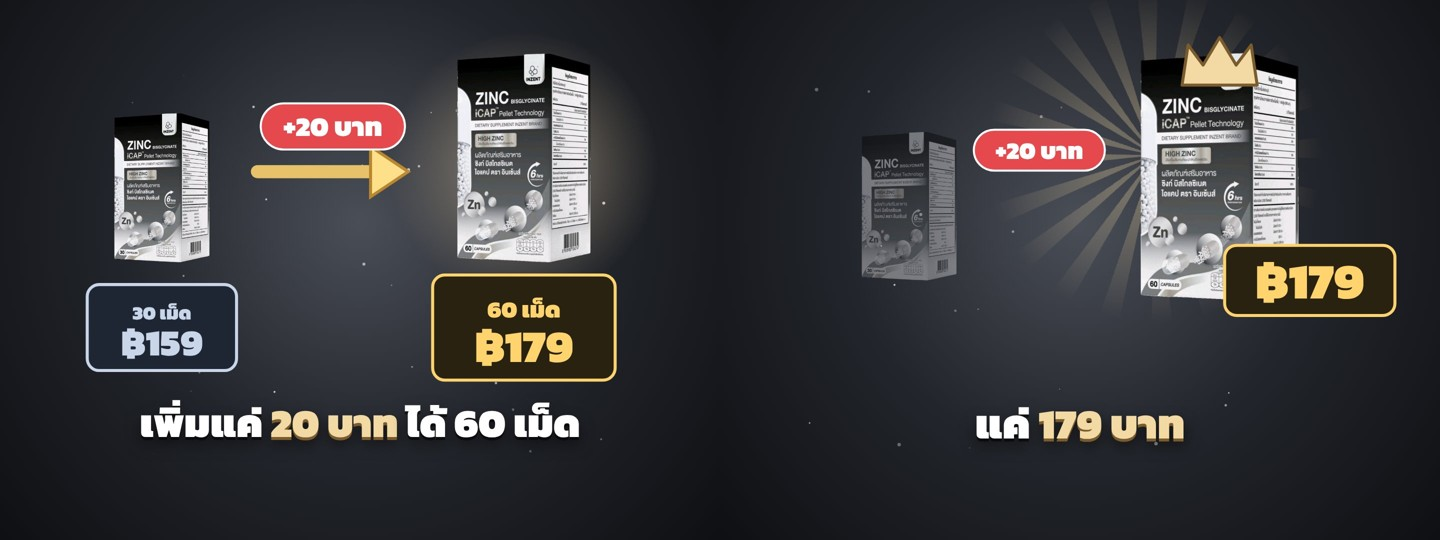
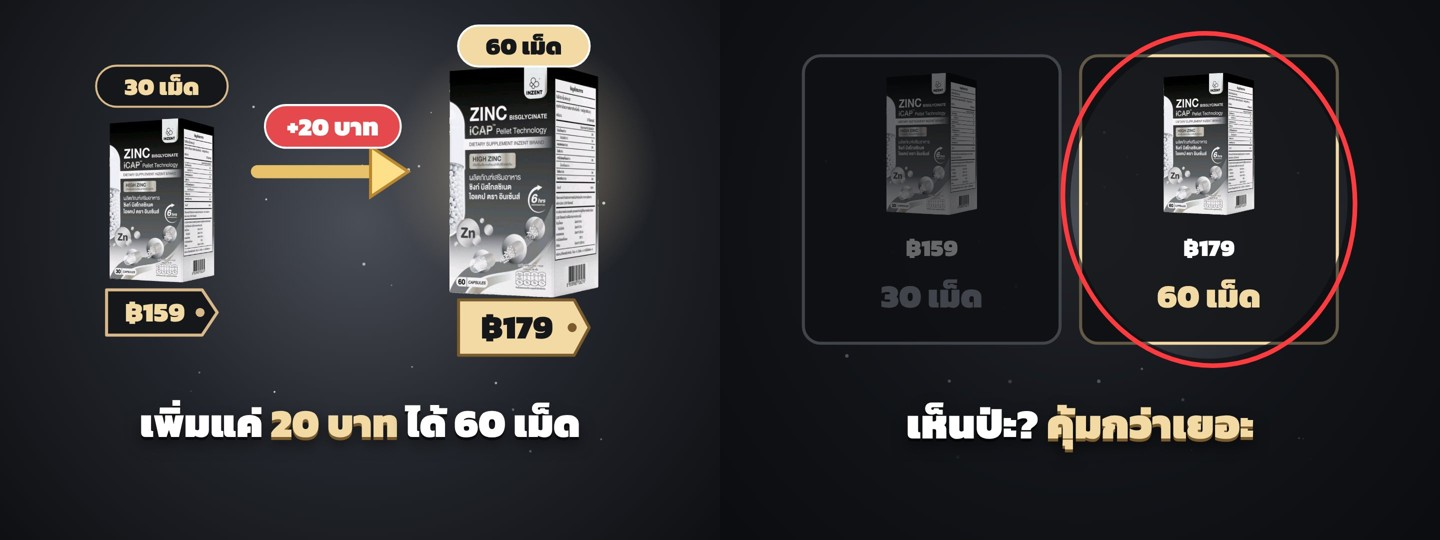
2411: flat tags + 30-caps label; per-capsule replaced with counts
Claude-Session: https://claude.ai/code/session_013vK57e4V6MU13RVwJvX1wC

Changed region(s): [[0.5625, 0.0, 0.9688, 0.8593], [0.2812, 0.0296, 0.4375, 0.7111], [0.0625, 0.1185, 0.2812, 0.7111]]

diff --git a/output/src/2411/index.html b/output/src/2411/index.html
@@ -422,25 +422,24 @@ function miniChart(x0,y0,W,H,blueP,goldP,mark){let s=`<rect x="${x0-30}" y="${y0
  if(mark){const [mh,col,txt,p]=mark;if(p>0){const x=x0+W*mh/8;s+=`<path d="M${x} ${y0-H} V${y0}" stroke="${col}" stroke-width="4" stroke-dasharray="10 8" opacity="${p}"/>`+pill(x,y0-H-6,txt,p,col,'#16171B',30)}}
  return s}
 
-function priceTag2(x,y,txt,p,big){if(p<=0)return '';const k=eOB(cl(p));const w=big?260:220,h=big?110:90;return `<g transform="translate(${x} ${y}) scale(${k}) rotate(${big?-6:4})"><path d="M${-w/2} ${-h/2} H${w/2-30} L${w/2} 0 L${w/2-30} ${h/2} H${-w/2}Z" fill="${big?'#F3D9A4':'#16171B'}" stroke="${big?'#7A5B2E':'#D9B98A'}" stroke-width="6" stroke-linejoin="round"/><circle cx="${w/2-34}" cy="0" r="9" fill="${big?'#7A5B2E':'#D9B98A'}"/><text x="-14" y="${big?22:18}" text-anchor="middle" font-family="K" font-weight="900" font-size="${big?66:54}" fill="${big?'#16171B':'#F3D9A4'}">${txt}</text></g>`}
+function priceTag2(x,y,txt,p,big,flat){if(p<=0)return '';const k=eOB(cl(p));const w=big?260:220,h=big?110:90;return `<g transform="translate(${x} ${y}) scale(${k}) rotate(${flat?0:(big?-6:4)})"><path d="M${-w/2} ${-h/2} H${w/2-30} L${w/2} 0 L${w/2-30} ${h/2} H${-w/2}Z" fill="${big?'#F3D9A4':'#16171B'}" stroke="${big?'#7A5B2E':'#D9B98A'}" stroke-width="6" stroke-linejoin="round"/><circle cx="${w/2-34}" cy="0" r="9" fill="${big?'#7A5B2E':'#D9B98A'}"/><text x="-14" y="${big?22:18}" text-anchor="middle" font-family="K" font-weight="900" font-size="${big?66:54}" fill="${big?'#16171B':'#F3D9A4'}">${txt}</text></g>`}
 function calM(x,y,m,p){if(p<=0)return '';const k=eOB(cl(p));return `<g transform="translate(${x} ${y}) scale(${k})"><rect x="-120" y="-115" width="240" height="235" rx="26" fill="#16171B" stroke="#D9B98A" stroke-width="6"/><rect x="-120" y="-115" width="240" height="64" rx="26" fill="#D9B98A"/><text y="-70" text-anchor="middle" font-family="K" font-weight="900" font-size="34" fill="#16171B">เดือนที่ ${m}</text><text y="70" text-anchor="middle" font-family="K" font-weight="900" font-size="100" fill="#fff">30</text></g>`}
 window.extra=function(t){
  const on=(a,b)=>t>=a-0.05&&t<b+0.45;
- // S1 30 vs 60 price (big, flat, different colours)
+ // S1 30 vs 60 price
  if(on(0,3.6)){const lt=t;let s='';
-  const price=(x,y,n,p,col,bg,fs,show)=>{if(show<=0)return '';const k=eOB(cl(show));const w=fs*3.3;return `<g transform="translate(${x} ${y}) scale(${k})"><rect x="${-w/2}" y="${-fs*0.95}" width="${w}" height="${fs*1.9}" rx="24" fill="${bg}" stroke="${col}" stroke-width="6"/><text y="${-fs*0.18}" text-anchor="middle" font-family="K" font-weight="900" font-size="${fs*0.42}" fill="${col}">${n}</text><text y="${fs*0.62}" text-anchor="middle" font-family="K" font-weight="900" font-size="${fs*0.82}" fill="${col}">${p}</text></g>`};
-  s+=jarAt('box30.png',330,520,300)+price(330,650,'30 เม็ด','฿159','#C9D6EA','#1E2633',90,1);
+  s+=jarAt('box30.png',330,560,330)+priceTag2(330,620,'฿159',1,false,true)+pill(330,170,'30 เม็ด',1,'#16171B','#F3D9A4',48).replace('stroke="#fff"','stroke="#D9B98A"');
   const a=cl((lt-0.3)/0.4);s+=`<g opacity="${a}"><path d="M520 340 H${520+230*eOC(a)}" stroke="#E8C26A" stroke-width="26" stroke-linecap="round"/><path d="M745 290 L820 340 L745 390Z" fill="#FFE08A" stroke="#B8862F" stroke-width="6"/></g>`;
-  s+=pill(670,250,'+20 บาท',cl((lt-0.6)/0.3),'#E5484D','#fff',54);
+  s+=pill(670,250,'+20 บาท',cl((lt-0.6)/0.3),'#E5484D','#fff',50);
   s+=`<circle cx="1050" cy="330" r="270" fill="url(#g1)"/><defs><radialGradient id="g1"><stop offset="0" stop-color="#FFECC8" stop-opacity=".5"/><stop offset="1" stop-color="#D9B98A" stop-opacity="0"/></radialGradient></defs>`;
-  s+=jarAt('box60.png',1050,520,420)+price(1050,650,'60 เม็ด','฿179','#FFD36E','#2A2210',110,cl((lt-0.9)/0.35));
+  s+=jarAt('box60.png',1050,590,470)+priceTag2(1050,650,'฿179',cl((lt-0.9)/0.35),true,true);
+  s+=pill(1050,90,'60 เม็ด',cl((lt-1.6)/0.3),'#F3D9A4','#16171B',48);
   $('v1').innerHTML=s}
- // S2 readable price comparison
+ // S2 per capsule
  if(on(3.6,4.9)){const lt=t-3.6;let s='';
-  const card=(x,img,n,price,col,d,big)=>{const p=cl((lt-d)/0.3);if(p<=0)return '';return `<g opacity="${p}"><rect x="${x-250}" y="100" width="500" height="580" rx="34" fill="rgba(22,23,27,.9)" stroke="${col}" stroke-width="6"/>${jarAt(img,x,400,big?290:250)}<text x="${x}" y="490" text-anchor="middle" font-family="K" font-weight="900" font-size="56" fill="#fff">${n}</text><text x="${x}" y="610" text-anchor="middle" font-family="K" font-weight="900" font-size="${big?110:92}" fill="${col}">${price}</text></g>`};
-  s+=card(450,'box30.png','30 เม็ด','฿159','#C9CED8',0,false)+card(990,'box60.png','60 เม็ด','฿179','#F3D9A4',0.1,true);
-  s+=`<g transform="translate(720 300) scale(${eOB(cl((lt-0.3)/0.3))})"><circle r="66" fill="#E5484D" stroke="#fff" stroke-width="6"/><text y="-2" text-anchor="middle" font-family="K" font-weight="900" font-size="40" fill="#fff">+20</text><text y="36" text-anchor="middle" font-family="K" font-weight="900" font-size="28" fill="#fff">บาท</text></g>`;
-  s+=`<rect x="735" y="95" width="510" height="590" rx="38" fill="none" stroke="#F3D9A4" stroke-width="${4+4*Math.sin(t*8)}" opacity="${cl((lt-0.5)/0.3)}"/>`+pill(990,720,'ได้เพิ่มอีก 30 เม็ด!',cl((lt-0.6)/0.3),'#F3D9A4','#16171B',42);
+  const card=(x,img,price,per,col,d)=>{const p=cl((lt-d)/0.3);if(p<=0)return '';return `<g opacity="${p}"><rect x="${x-250}" y="110" width="500" height="560" rx="34" fill="rgba(22,23,27,.9)" stroke="${col}" stroke-width="6"/>${jarAt(img,x,420,280)}<text x="${x}" y="500" text-anchor="middle" font-family="K" font-weight="900" font-size="46" fill="#fff">${price}</text><text x="${x}" y="600" text-anchor="middle" font-family="K" font-weight="900" font-size="64" fill="${col}">${per}</text></g>`};
+  s+=card(450,'box30.png','฿159','30 เม็ด','#9AA0AC',0)+card(990,'box60.png','฿179','60 เม็ด','#F3D9A4',0.1);
+  s+=focus(2,990,390,270,310,(lt-0.6)/0.3);
   $('v2').innerHTML=s}
  // S3 who benefits: hormone, skin, hair, nails, acne
  if(on(4.9,10.3)){const lt=t-4.9;let s='';

diff --git a/output/src/2411/extra.js b/output/src/2411/extra.js
@@ -1,22 +1,21 @@
-function priceTag2(x,y,txt,p,big){if(p<=0)return '';const k=eOB(cl(p));const w=big?260:220,h=big?110:90;return `<g transform="translate(${x} ${y}) scale(${k}) rotate(${big?-6:4})"><path d="M${-w/2} ${-h/2} H${w/2-30} L${w/2} 0 L${w/2-30} ${h/2} H${-w/2}Z" fill="${big?'#F3D9A4':'#16171B'}" stroke="${big?'#7A5B2E':'#D9B98A'}" stroke-width="6" stroke-linejoin="round"/><circle cx="${w/2-34}" cy="0" r="9" fill="${big?'#7A5B2E':'#D9B98A'}"/><text x="-14" y="${big?22:18}" text-anchor="middle" font-family="K" font-weight="900" font-size="${big?66:54}" fill="${big?'#16171B':'#F3D9A4'}">${txt}</text></g>`}
+function priceTag2(x,y,txt,p,big,flat){if(p<=0)return '';const k=eOB(cl(p));const w=big?260:220,h=big?110:90;return `<g transform="translate(${x} ${y}) scale(${k}) rotate(${flat?0:(big?-6:4)})"><path d="M${-w/2} ${-h/2} H${w/2-30} L${w/2} 0 L${w/2-30} ${h/2} H${-w/2}Z" fill="${big?'#F3D9A4':'#16171B'}" stroke="${big?'#7A5B2E':'#D9B98A'}" stroke-width="6" stroke-linejoin="round"/><circle cx="${w/2-34}" cy="0" r="9" fill="${big?'#7A5B2E':'#D9B98A'}"/><text x="-14" y="${big?22:18}" text-anchor="middle" font-family="K" font-weight="900" font-size="${big?66:54}" fill="${big?'#16171B':'#F3D9A4'}">${txt}</text></g>`}
 function calM(x,y,m,p){if(p<=0)return '';const k=eOB(cl(p));return `<g transform="translate(${x} ${y}) scale(${k})"><rect x="-120" y="-115" width="240" height="235" rx="26" fill="#16171B" stroke="#D9B98A" stroke-width="6"/><rect x="-120" y="-115" width="240" height="64" rx="26" fill="#D9B98A"/><text y="-70" text-anchor="middle" font-family="K" font-weight="900" font-size="34" fill="#16171B">เดือนที่ ${m}</text><text y="70" text-anchor="middle" font-family="K" font-weight="900" font-size="100" fill="#fff">30</text></g>`}
 window.extra=function(t){
  const on=(a,b)=>t>=a-0.05&&t<b+0.45;
- // S1 30 vs 60 price (big, flat, different colours)
+ // S1 30 vs 60 price
  if(on(0,3.6)){const lt=t;let s='';
-  const price=(x,y,n,p,col,bg,fs,show)=>{if(show<=0)return '';const k=eOB(cl(show));const w=fs*3.3;return `<g transform="translate(${x} ${y}) scale(${k})"><rect x="${-w/2}" y="${-fs*0.95}" width="${w}" height="${fs*1.9}" rx="24" fill="${bg}" stroke="${col}" stroke-width="6"/><text y="${-fs*0.18}" text-anchor="middle" font-family="K" font-weight="900" font-size="${fs*0.42}" fill="${col}">${n}</text><text y="${fs*0.62}" text-anchor="middle" font-family="K" font-weight="900" font-size="${fs*0.82}" fill="${col}">${p}</text></g>`};
-  s+=jarAt('box30.png',330,520,300)+price(330,650,'30 เม็ด','฿159','#C9D6EA','#1E2633',90,1);
+  s+=jarAt('box30.png',330,560,330)+priceTag2(330,620,'฿159',1,false,true)+pill(330,170,'30 เม็ด',1,'#16171B','#F3D9A4',48).replace('stroke="#fff"','stroke="#D9B98A"');
   const a=cl((lt-0.3)/0.4);s+=`<g opacity="${a}"><path d="M520 340 H${520+230*eOC(a)}" stroke="#E8C26A" stroke-width="26" stroke-linecap="round"/><path d="M745 290 L820 340 L745 390Z" fill="#FFE08A" stroke="#B8862F" stroke-width="6"/></g>`;
-  s+=pill(670,250,'+20 บาท',cl((lt-0.6)/0.3),'#E5484D','#fff',54);
+  s+=pill(670,250,'+20 บาท',cl((lt-0.6)/0.3),'#E5484D','#fff',50);
   s+=`<circle cx="1050" cy="330" r="270" fill="url(#g1)"/><defs><radialGradient id="g1"><stop offset="0" stop-color="#FFECC8" stop-opacity=".5"/><stop offset="1" stop-color="#D9B98A" stop-opacity="0"/></radialGradient></defs>`;
-  s+=jarAt('box60.png',1050,520,420)+price(1050,650,'60 เม็ด','฿179','#FFD36E','#2A2210',110,cl((lt-0.9)/0.35));
+  s+=jarAt('box60.png',1050,590,470)+priceTag2(1050,650,'฿179',cl((lt-0.9)/0.35),true,true);
+  s+=pill(1050,90,'60 เม็ด',cl((lt-1.6)/0.3),'#F3D9A4','#16171B',48);
   $('v1').innerHTML=s}
- // S2 readable price comparison
+ // S2 per capsule
  if(on(3.6,4.9)){const lt=t-3.6;let s='';
-  const card=(x,img,n,price,col,d,big)=>{const p=cl((lt-d)/0.3);if(p<=0)return '';return `<g opacity="${p}"><rect x="${x-250}" y="100" width="500" height="580" rx="34" fill="rgba(22,23,27,.9)" stroke="${col}" stroke-width="6"/>${jarAt(img,x,400,big?290:250)}<text x="${x}" y="490" text-anchor="middle" font-family="K" font-weight="900" font-size="56" fill="#fff">${n}</text><text x="${x}" y="610" text-anchor="middle" font-family="K" font-weight="900" font-size="${big?110:92}" fill="${col}">${price}</text></g>`};
-  s+=card(450,'box30.png','30 เม็ด','฿159','#C9CED8',0,false)+card(990,'box60.png','60 เม็ด','฿179','#F3D9A4',0.1,true);
-  s+=`<g transform="translate(720 300) scale(${eOB(cl((lt-0.3)/0.3))})"><circle r="66" fill="#E5484D" stroke="#fff" stroke-width="6"/><text y="-2" text-anchor="middle" font-family="K" font-weight="900" font-size="40" fill="#fff">+20</text><text y="36" text-anchor="middle" font-family="K" font-weight="900" font-size="28" fill="#fff">บาท</text></g>`;
-  s+=`<rect x="735" y="95" width="510" height="590" rx="38" fill="none" stroke="#F3D9A4" stroke-width="${4+4*Math.sin(t*8)}" opacity="${cl((lt-0.5)/0.3)}"/>`+pill(990,720,'ได้เพิ่มอีก 30 เม็ด!',cl((lt-0.6)/0.3),'#F3D9A4','#16171B',42);
+  const card=(x,img,price,per,col,d)=>{const p=cl((lt-d)/0.3);if(p<=0)return '';return `<g opacity="${p}"><rect x="${x-250}" y="110" width="500" height="560" rx="34" fill="rgba(22,23,27,.9)" stroke="${col}" stroke-width="6"/>${jarAt(img,x,420,280)}<text x="${x}" y="500" text-anchor="middle" font-family="K" font-weight="900" font-size="46" fill="#fff">${price}</text><text x="${x}" y="600" text-anchor="middle" font-family="K" font-weight="900" font-size="64" fill="${col}">${per}</text></g>`};
+  s+=card(450,'box30.png','฿159','30 เม็ด','#9AA0AC',0)+card(990,'box60.png','฿179','60 เม็ด','#F3D9A4',0.1);
+  s+=focus(2,990,390,270,310,(lt-0.6)/0.3);
   $('v2').innerHTML=s}
  // S3 who benefits: hormone, skin, hair, nails, acne
  if(on(4.9,10.3)){const lt=t-4.9;let s='';
